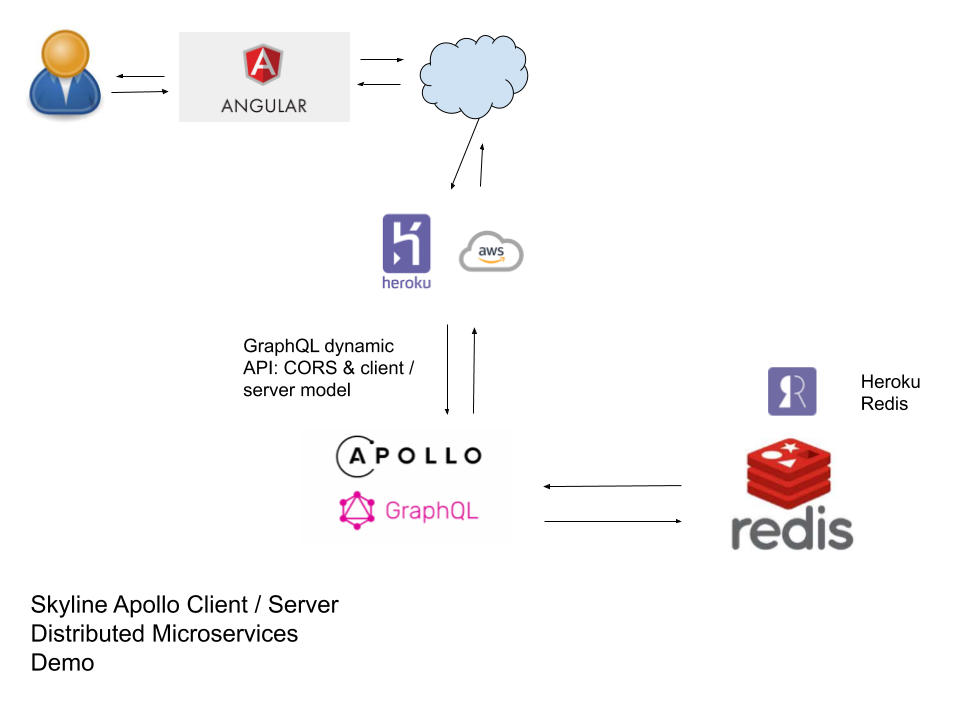
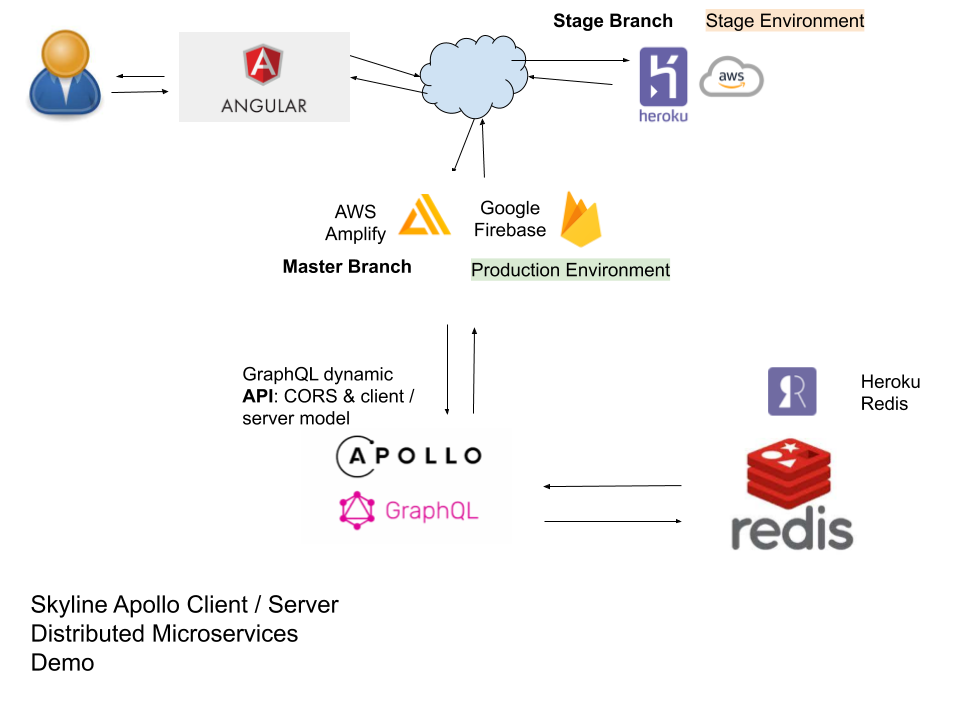
client_host_4 updated diagram and added client host 4
need the new client host for apollo client in staging.

diff --git a/server.js b/server.js
@@ -11,10 +11,12 @@ const APOLLO_SERVER_PORT = process.env.PORT || '9000';
 const CLIENT_HOST1 = process.env.CLIENT_HOST1 || 'http://localhost';
 const CLIENT_HOST2 = process.env.CLIENT_HOST2;
 const CLIENT_HOST3 = process.env.CLIENT_HOST3;
+const CLIENT_HOST4 = process.env.CLIENT_HOST4;
 const REDIS_URL = process.env.REDIS_URL || 'redis://localhost:6379';
 
 const client = new Redis(REDIS_URL);
-console.log(`Allowing CORS from: ${CLIENT_HOST1}, ${CLIENT_HOST2}, and ${CLIENT_HOST3}`);
+console.log(`Allowing CORS from: ${CLIENT_HOST1}, ${CLIENT_HOST2},
+  ${CLIENT_HOST3}, and ${CLIENT_HOST4}`);
 const server = new ApolloServer({
   cors: {
       credentials: true,
@@ -22,7 +24,8 @@ const server = new ApolloServer({
           const whitelist = [
               CLIENT_HOST1,
               CLIENT_HOST2,
-              CLIENT_HOST3
+              CLIENT_HOST3,
+              CLIENT_HOST4
           ];
 
           if (whitelist.indexOf(origin) !== -1) {
